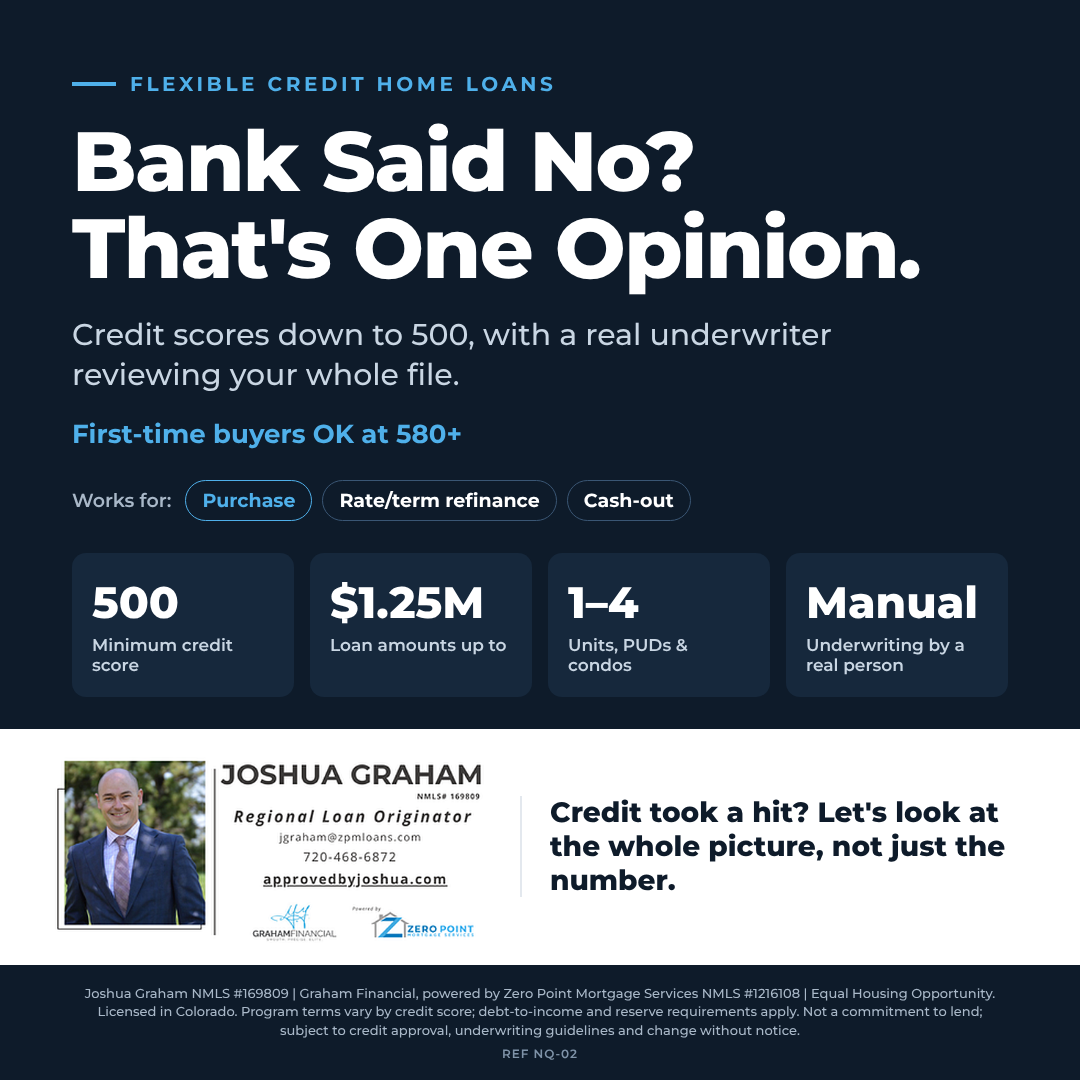
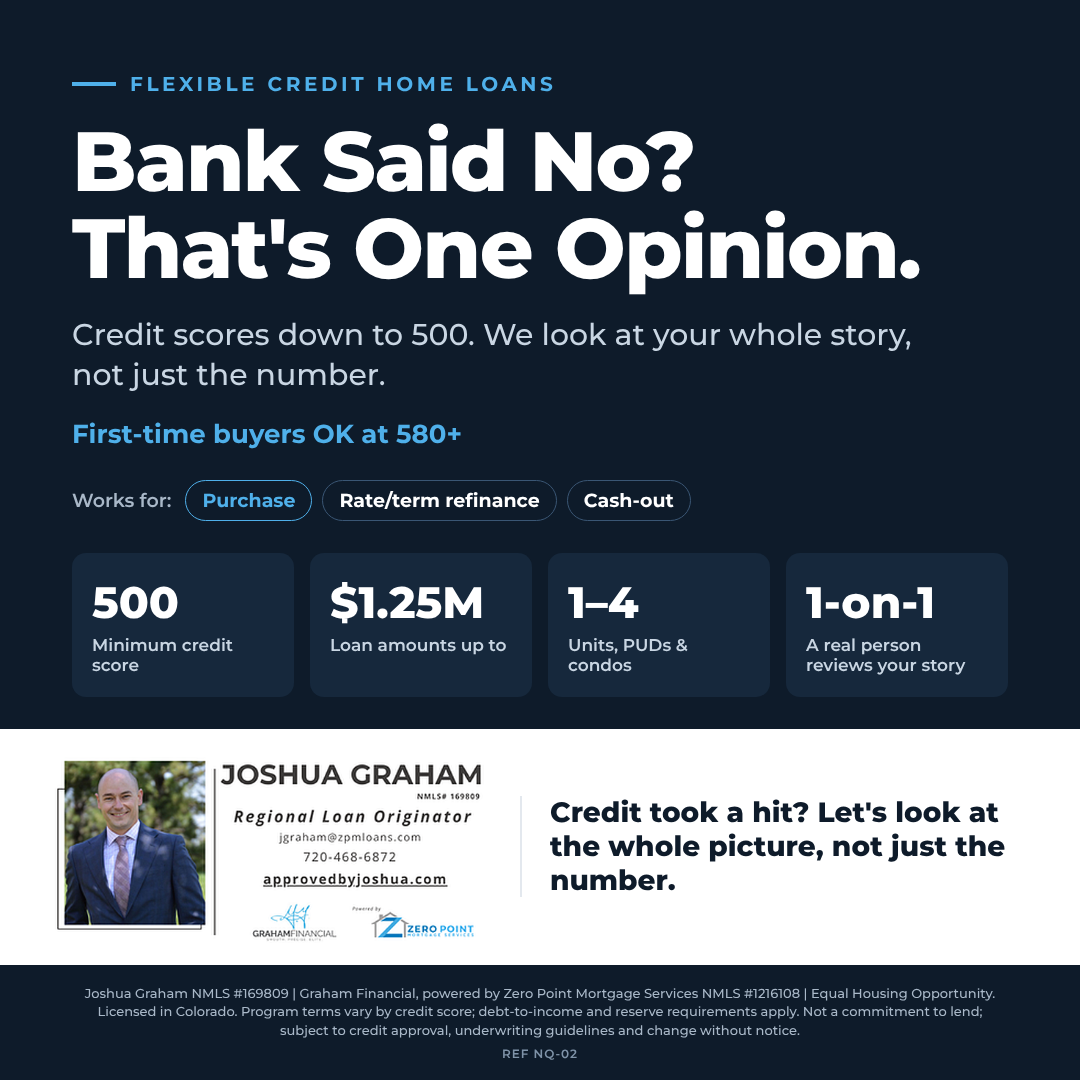
Save point: plain-language pass on flyers/copy, remove Show Me How from SM-01 flyer, add M7 (43x, Fed SCF 2025) + M8 + content rules
Claude-Session: https://claude.ai/code/session_01HF5EFoWpB6dZDERsWsq2kx

Changed region(s): [[0.7333, 0.55, 0.9167, 0.6417], [0.4278, 0.3056, 0.8556, 0.3361], [0.0611, 0.3361, 0.4278, 0.3667]]

diff --git a/src/smart-money/data.js b/src/smart-money/data.js
@@ -101,7 +101,7 @@ See where your property lands 👇`,
 
 This program goes up to 80% LTV even when the ratio is under 1.0. And if you just bought or rehabbed, cash-out has no seasoning requirement — you don't have to wait 6–12 months to pull your equity back out.
 
-First-time investor? You can qualify with 12 months of documented rental history. 24-hour underwriting, close in as little as 20 days, and appraisal transfers are accepted.
+First-time investor? You can qualify with 12 months of documented rental history. A decision on your file in about a day, close in as little as 20 days, and appraisal transfers are accepted.
 
 Plug your numbers in and see exactly where it lands 👇`,
     video: {
@@ -210,18 +210,18 @@ Let's look at what a lender would really count 👇`,
 ✔ Purchase, refinance or cash-out
 ✔ Loan amounts up to $1.25M
 ✔ First-time buyers OK at 580+
-✔ Manual underwriting — a real person looks at your file
+✔ A real person reviews your whole story, not just the score
 
 Let's see where you stand 👇`,
     long: `A credit score is a snapshot, not a verdict.
 
-If a bank turned you down over your score, this program was built for exactly that file. Scores down to 500, manual underwriting where a real person reviews the whole picture, and purchase, rate/term, or cash-out options. Single family, 2–4 units, PUDs and condos. First-time buyers welcome at 580+.
+If a bank turned you down over your score, this program was built for exactly that file. Scores down to 500, a real person who reviews your whole picture, and purchase, rate/term, or cash-out options. Single family, 2–4 units, PUDs and condos. First-time buyers welcome at 580+.
 
 Let's look at your full picture, not just the number 👇`,
     video: {
       title: "Turned down for your credit score? Here's what most people don't know",
       hook: "The bank's 'no' and the market's 'no' are two different things.",
-      points: ["Why banks stop at a number", "What manual underwriting looks at instead", "Realistic expectations: what changes at 580 vs 500"],
+      points: ["Why banks stop at a number", "What a real person looks at besides the number", "Realistic expectations: what changes at 580 vs 500"],
       cta: "Message me 'SCORE' and let's look at your full picture.",
     },
   },
@@ -269,7 +269,7 @@ Let me show you how, and get you the money to do it.
 ✔ Qualify on the property, not your tax returns
 ✔ Less paperwork with business-purpose loans
 
-Let's audit your portfolio for the strategies you left on the table 👇`,
+Want to know what you left on the table? Comment or tap "Show me how" 👇`,
     long: `Here's a question for every investor holding rentals right now:
 
 How many of your properties would be cash flowing today if your loans had been structured differently?
@@ -280,7 +280,7 @@ That's what a portfolio review is for. We go property by property and find the s
 
 I'm a wholesale broker with access to business-purpose lenders in most states. Qualify on the property, not your tax returns, with less paperwork and often lower payments.
 
-The only thing stopping most investors is not knowing who to call. Let me show you how 👇`,
+The only thing stopping most investors is not knowing who to call. Tap "Show me how" and let's start your portfolio review 👇`,
     video: {
       title: "The prepay strategy most investors skip (and what it costs them)",
       hook: "If your prepay period already ran out, you paid a higher rate for protection you never used.",
@@ -350,4 +350,17 @@ export const MESSAGES = [
   { id: "M6", theme: "The guy to call", audience: "investor",
     text: "The only thing stopping most investors is not knowing who to call. I'm a wholesale broker with access to business-purpose lenders in most states. Call me.",
     caution: "Say 'most states,' not 'nationwide' — 13 states require a license even for business purpose." },
+  { id: "M7", theme: "Owners vs renters", audience: "consumer",
+    text: "Homeowners have about 43 times the net worth of renters. Owning real estate is one of the most proven ways regular people build wealth, and we're here to teach you how.",
+    caution: "Cite the source when posting: Federal Reserve Survey of Consumer Finances, 2025 (median $458,900 owners vs $10,600 renters). The '44x' figure is from older 2016 data." },
+  { id: "M8", theme: "We teach", audience: "investor",
+    text: "Our job isn't just to get you a loan. It's to teach you how to build wealth with real estate: how the strategies work, when to use them, and how to deploy them." },
+];
+
+// ---- Content rules applied to every card and message
+export const CONTENT_RULES = [
+  "Lead with their pain point, then the strategy that solves it.",
+  "Plain words over lender jargon (no 'manual underwriting', 'WVOE', 'DTI' in public copy).",
+  "Teach first: position Joshua as the person who shows them how to build wealth with real estate.",
+  "Every post ends with a clear next step to the landing page ('Show me how').",
 ];

diff --git a/src/smart-money/SmartMoney.jsx b/src/smart-money/SmartMoney.jsx
@@ -1,5 +1,5 @@
 import React, { useMemo, useState } from "react";
-import { BRAND, CARDS, PAIN_POINTS, MAGNETS, FOOTERS, CHANNELS, planFor, magnetLink, MESSAGES } from "./data.js";
+import { BRAND, CARDS, PAIN_POINTS, MAGNETS, FOOTERS, CHANNELS, planFor, magnetLink, MESSAGES, CONTENT_RULES } from "./data.js";
 
 // Self-contained module: drop <SmartMoney /> into the Producer app later.
 const C = {
@@ -212,6 +212,7 @@ function Messages() {
   return (
     <div style={{ display: "flex", flexDirection: "column", gap: 12 }}>
       <p style={{ margin: 0, color: C.muted, fontSize: 14 }}>Core Smart Money messages. Use them as post hooks, captions or video openers.</p>
+      <section style={{ ...panel, background: C.bg }}><div style={{ fontWeight: 800, marginBottom: 6 }}>Content rules</div><ul style={{ margin: 0, paddingLeft: 18, lineHeight: 1.6 }}>{CONTENT_RULES.map((r) => <li key={r}>{r}</li>)}</ul></section>
       {MESSAGES.map((m) => (
         <section key={m.id} style={panel}>
           <div style={{ display: "flex", alignItems: "center", gap: 8, flexWrap: "wrap", marginBottom: 8 }}>
